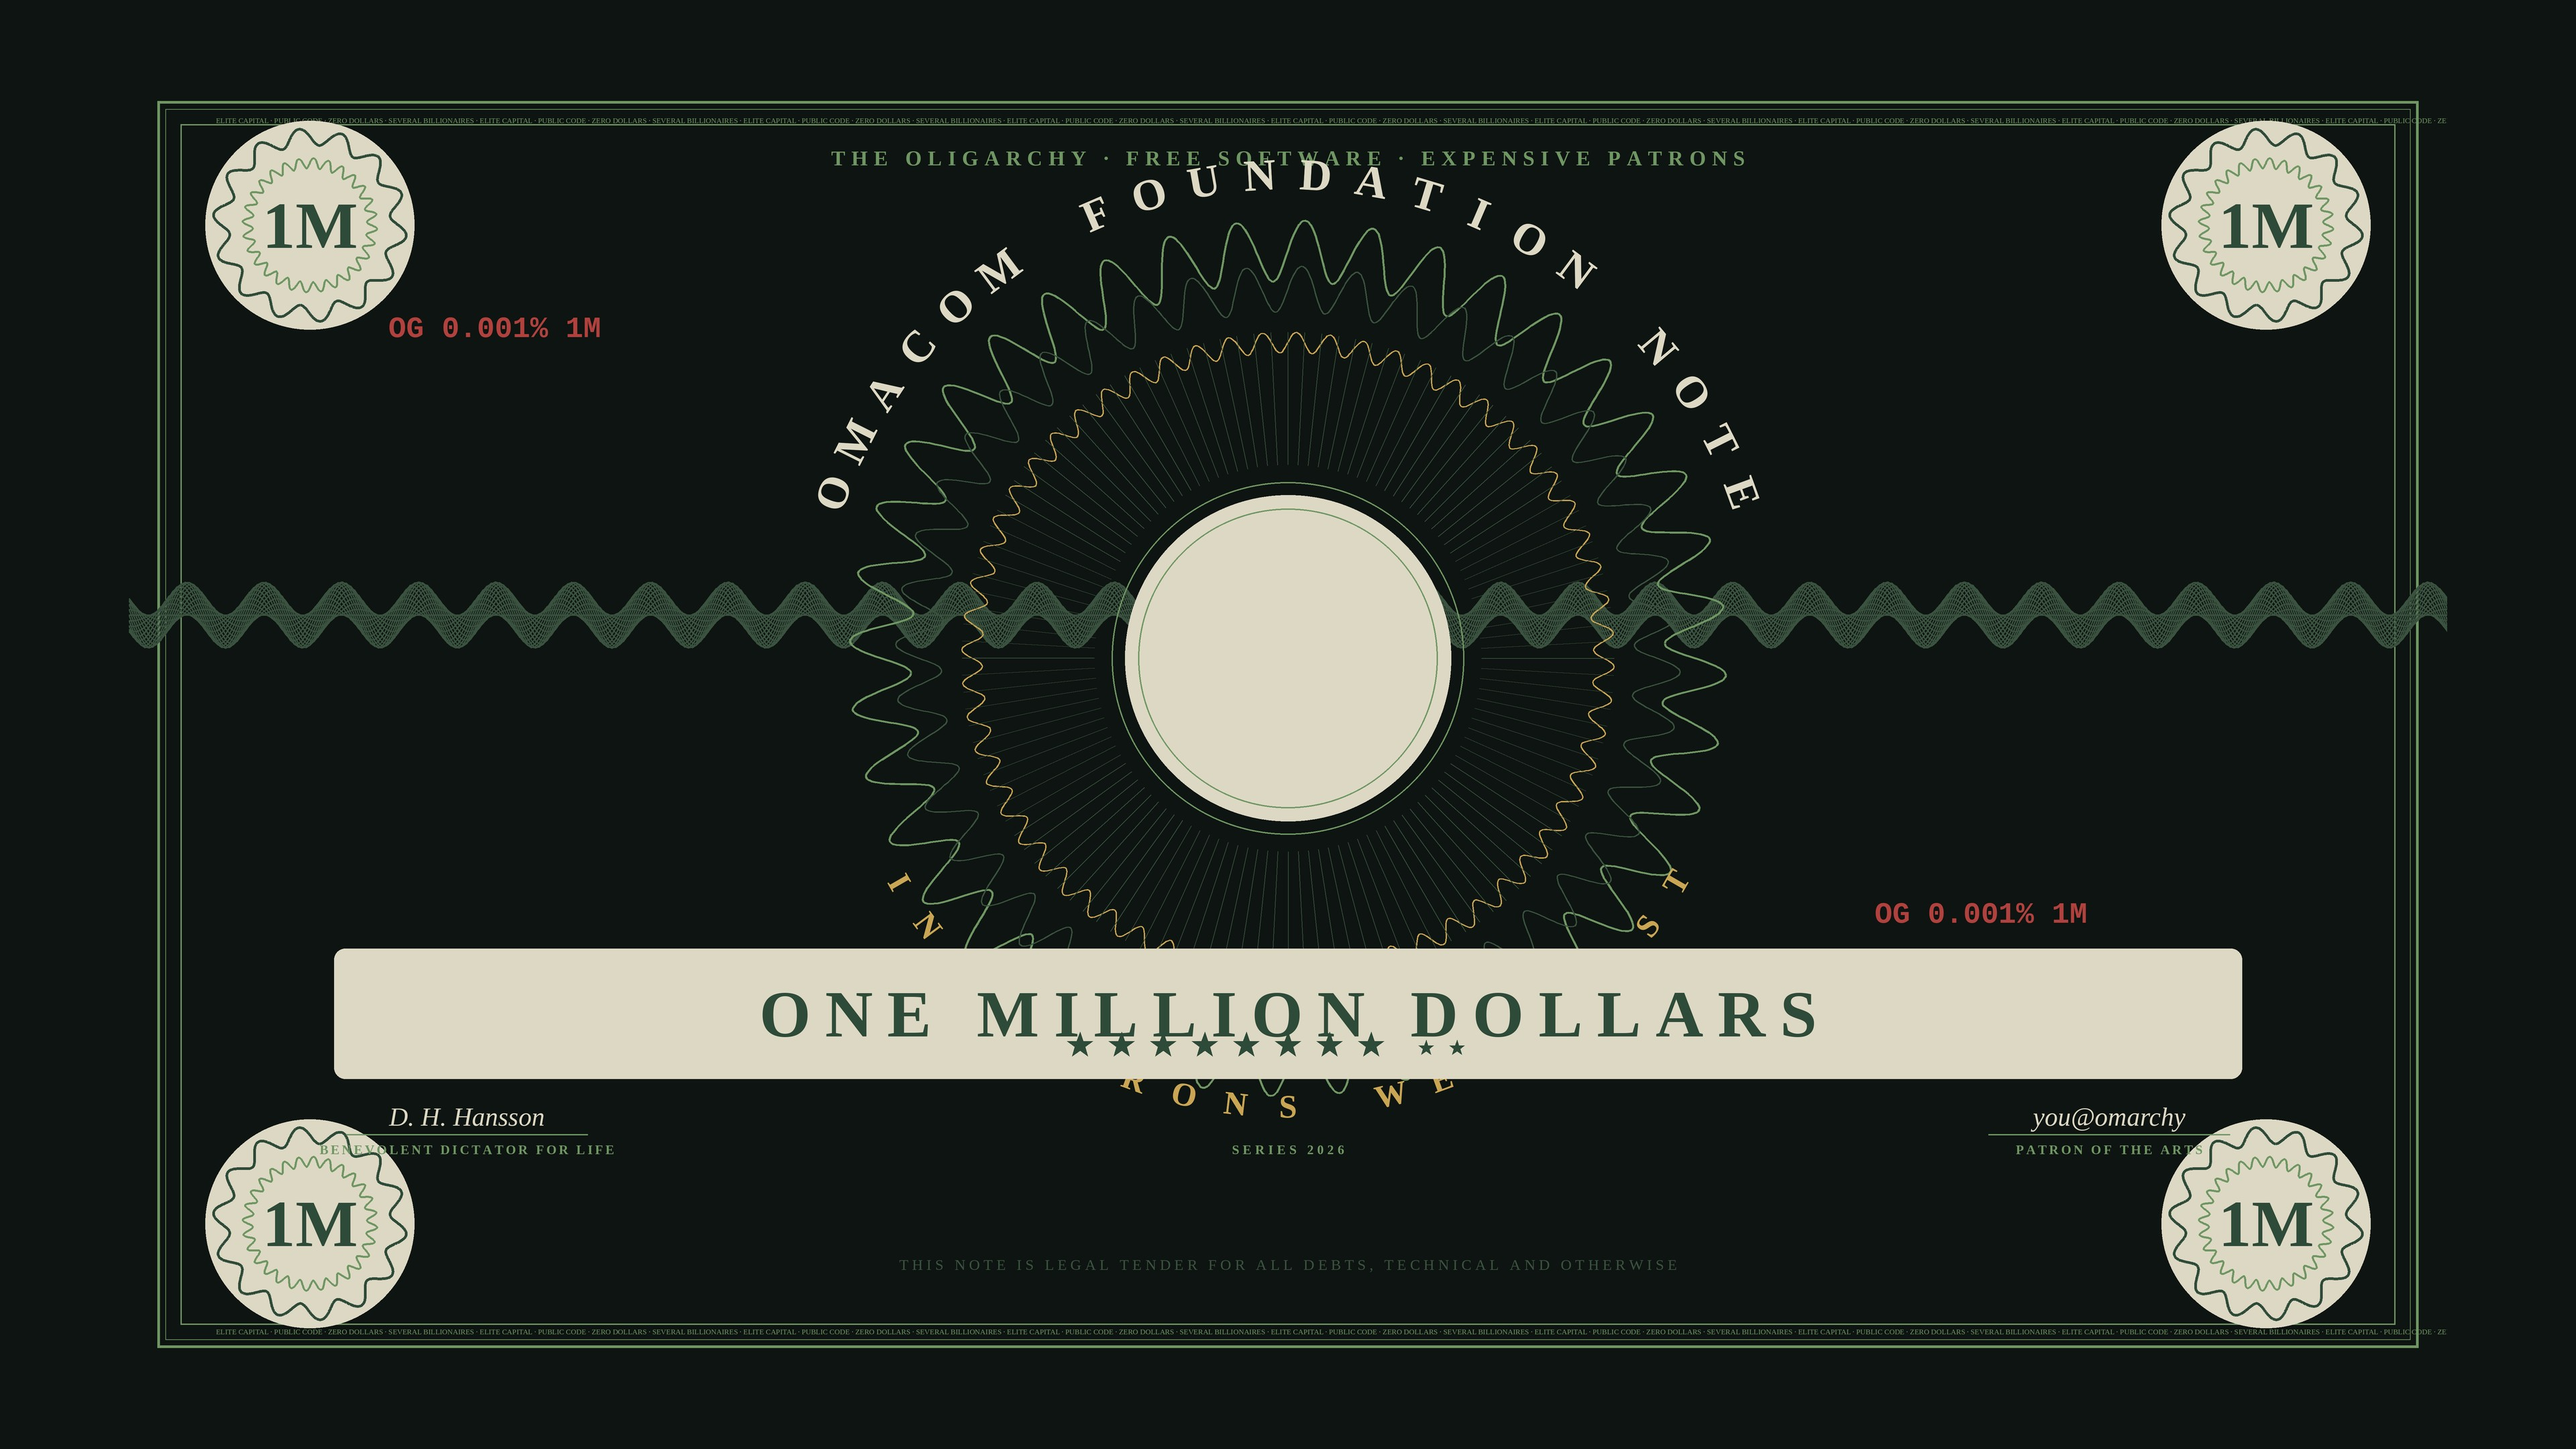
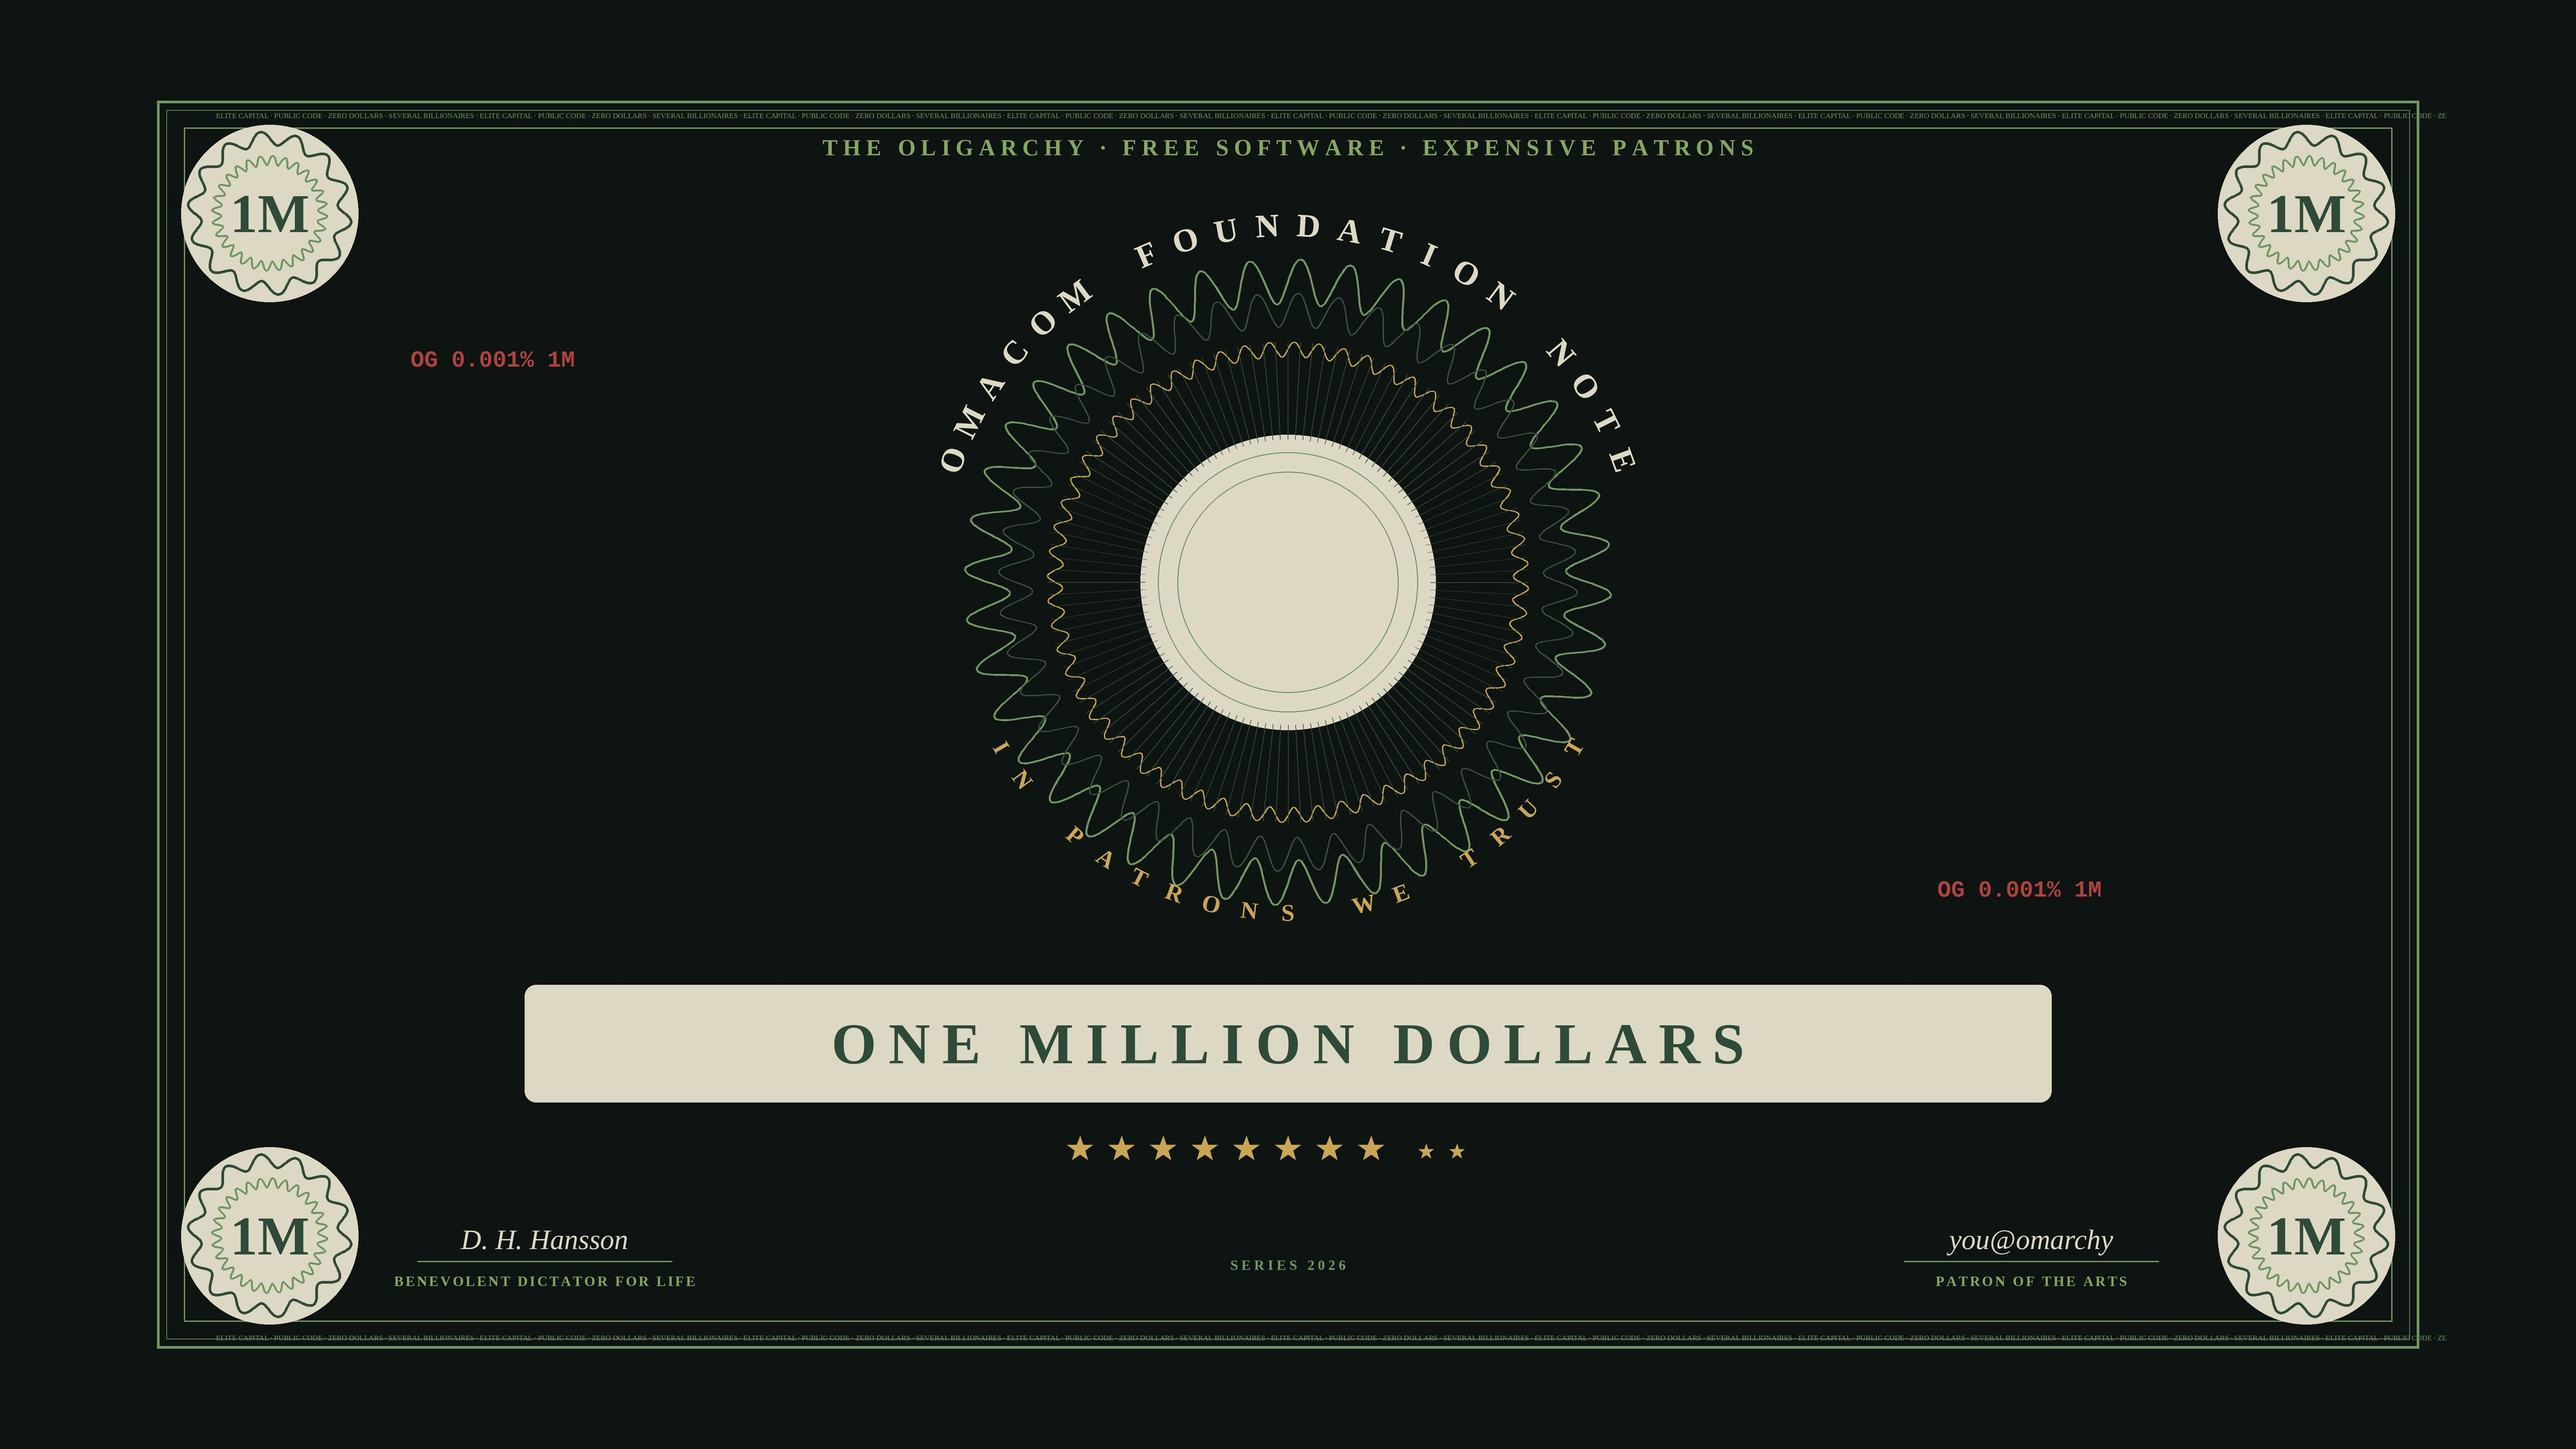
Simplify Legal Tender hero composition
Give the header, medallion, denomination plaque, patron stars, signatures,
and serials separate zones. Remove the crossing lattice band and redundant
footer that were producing an amateur overlapping layout.

diff --git a/bin/generate.py b/bin/generate.py
@@ -70,44 +70,74 @@ def scene(fn):
 # ─────────────────────────────────────────────────────────────────────────
 @scene
 def scene_foundation_note(p):
-    p.border(((SZ(56), 4), (SZ(72), 1), (SZ(102), 2)))
-    p.microprint(Y(86))
-    p.microprint(H - Y(96))
-    p.text_at(W / 2, Y(168), "THE OLIGARCHY \u00b7 FREE SOFTWARE \u00b7 EXPENSIVE PATRONS",
-              p.font(SERIF, SZ(42)), GREEN, tracking=X(10))
+    # A classic note hierarchy: header, seal, value, patrons, signatures.
+    # Nothing crosses the medallion or denomination plaque.
+    p.border(((42, 4), (56, 1), (82, 2)))
+    p.microprint(58)
+    p.microprint(H - 64)
+    p.text_at(
+        W / 2,
+        112,
+        "THE OLIGARCHY · FREE SOFTWARE · EXPENSIVE PATRONS",
+        p.font(SERIF, 34),
+        GREEN_BRIGHT,
+        tracking=8,
+    )
 
-    p.lattice_band(Y(1000), Y(1130), GREEN_DIM, waves=30, strands=18, width=2)
+    # Four small value seals stay in the corners and out of the copy.
+    for cx, cy in (
+        (210, 210),
+        (W - 210, 210),
+        (210, H - 210),
+        (W - 210, H - 210),
+    ):
+        p.d.ellipse(
+            [p.s(cx - 132), p.s(cy - 132), p.s(cx + 132), p.s(cy + 132)],
+            fill=CREAM,
+        )
+        p.rosette(cx, cy, 122, 102, GREEN_INK, petals=14, width=4)
+        p.rosette(cx, cy, 86, 72, GREEN, petals=28, width=3)
+        p.text_at(cx, cy, "1M", p.font(SERIF, 82), GREEN_INK)
 
-    for cx, cy in ((X(300), Y(300)), (W - X(300), Y(300)),
-                   (X(300), H - Y(300)), (W - X(300), H - Y(300))):
-        p.d.ellipse([p.s(cx - SZ(205)), p.s(cy - SZ(205)), p.s(cx + SZ(205)), p.s(cy + SZ(205))],
-                    fill=CREAM)
-        p.rosette(cx, cy, SZ(190), SZ(158), GREEN_INK, petals=14, width=4)
-        p.rosette(cx, cy, SZ(132), SZ(112), GREEN, petals=28, width=3)
-        p.text_at(cx, cy, "1M", p.font(SERIF, SZ(130)), GREEN_INK)
+    # The seal owns the center. No horizontal band cuts through it.
+    cx, cy = W / 2, 760
+    p.d.ellipse(
+        [p.s(cx - 220), p.s(cy - 220), p.s(cx + 220), p.s(cy + 220)],
+        fill=CREAM,
+    )
+    p.o_medallion(cx, cy, scale=0.56)
 
-    p.d.ellipse([p.s(W / 2 - SZ(290)), p.s(Y(1150) - SZ(290)),
-                 p.s(W / 2 + SZ(290)), p.s(Y(1150) + SZ(290))], fill=CREAM)
-    p.o_medallion(W / 2, Y(1150), scale=YS)
-    p.d.rounded_rectangle([p.s(X(340)), p.s(Y(1720)), p.s(W - X(340)), p.s(Y(1975))],
-                          radius=SZ(44), fill=CREAM)
-    p.text_at(W / 2, Y(1848), "ONE MILLION DOLLARS", p.font(SERIF, SZ(130)), GREEN_INK,
-              tracking=X(24))
-    p.patron_stars(W / 2, Y(1910), GREEN_INK)
-    p.serials("OG 0.001% 1M")
+    # Serials sit in open fields, away from the seal and signatures.
+    p.serials(
+        "OG 0.001% 1M",
+        size=34,
+        spots=[(420, 410), (W - 760, 1200)],
+    )
 
-    sig, cap = p.font(SERIF_IT, SZ(52)), p.font(SERIF, SZ(26))
-    p.text_at(X(560), Y(2050), "D. H. Hansson", sig, CREAM)
-    p.d.line([p.s(X(360)), p.s(Y(2085)), p.s(X(760)), p.s(Y(2085))], fill=GREEN,
-             width=int(2 * p.ss))
-    p.text_at(X(560), Y(2115), "BENEVOLENT DICTATOR FOR LIFE", cap, GREEN, tracking=X(4))
-    p.text_at(W - X(560), Y(2050), "you@omarchy", sig, CREAM)
-    p.d.line([p.s(W - X(760)), p.s(Y(2085)), p.s(W - X(360)), p.s(Y(2085))], fill=GREEN,
-             width=int(2 * p.ss))
-    p.text_at(W - X(560), Y(2115), "PATRON OF THE ARTS", cap, GREEN, tracking=X(4))
-    p.text_at(W / 2, Y(2115), "SERIES 2026", cap, GREEN, tracking=X(6))
-    p.text_at(W / 2, Y(2340), "THIS NOTE IS LEGAL TENDER FOR ALL DEBTS, TECHNICAL AND OTHERWISE",
-              p.font(SERIF_REG, SZ(30)), GREEN_DIM, tracking=X(6))
+    # A single value plaque below the complete seal.
+    p.d.rounded_rectangle(
+        [p.s(590), p.s(1360), p.s(W - 590), p.s(1535)],
+        radius=34,
+        fill=CREAM,
+    )
+    p.text_at(
+        W / 2,
+        1448,
+        "ONE MILLION DOLLARS",
+        p.font(SERIF, 86),
+        GREEN_INK,
+        tracking=18,
+    )
+    p.patron_stars(W / 2, 1605, GOLD)
+
+    sig, cap = p.font(SERIF_IT, 42), p.font(SERIF, 21)
+    p.text_at(620, 1740, "D. H. Hansson", sig, CREAM)
+    p.d.line([p.s(430), p.s(1772), p.s(810), p.s(1772)], fill=GREEN, width=4)
+    p.text_at(620, 1802, "BENEVOLENT DICTATOR FOR LIFE", cap, GREEN_BRIGHT, tracking=3)
+    p.text_at(W - 620, 1740, "you@omarchy", sig, CREAM)
+    p.d.line([p.s(W - 810), p.s(1772), p.s(W - 430), p.s(1772)], fill=GREEN, width=4)
+    p.text_at(W - 620, 1802, "PATRON OF THE ARTS", cap, GREEN_BRIGHT, tracking=3)
+    p.text_at(W / 2, 1778, "SERIES 2026", cap, GREEN, tracking=5)
 
 
 # ─────────────────────────────────────────────────────────────────────────
